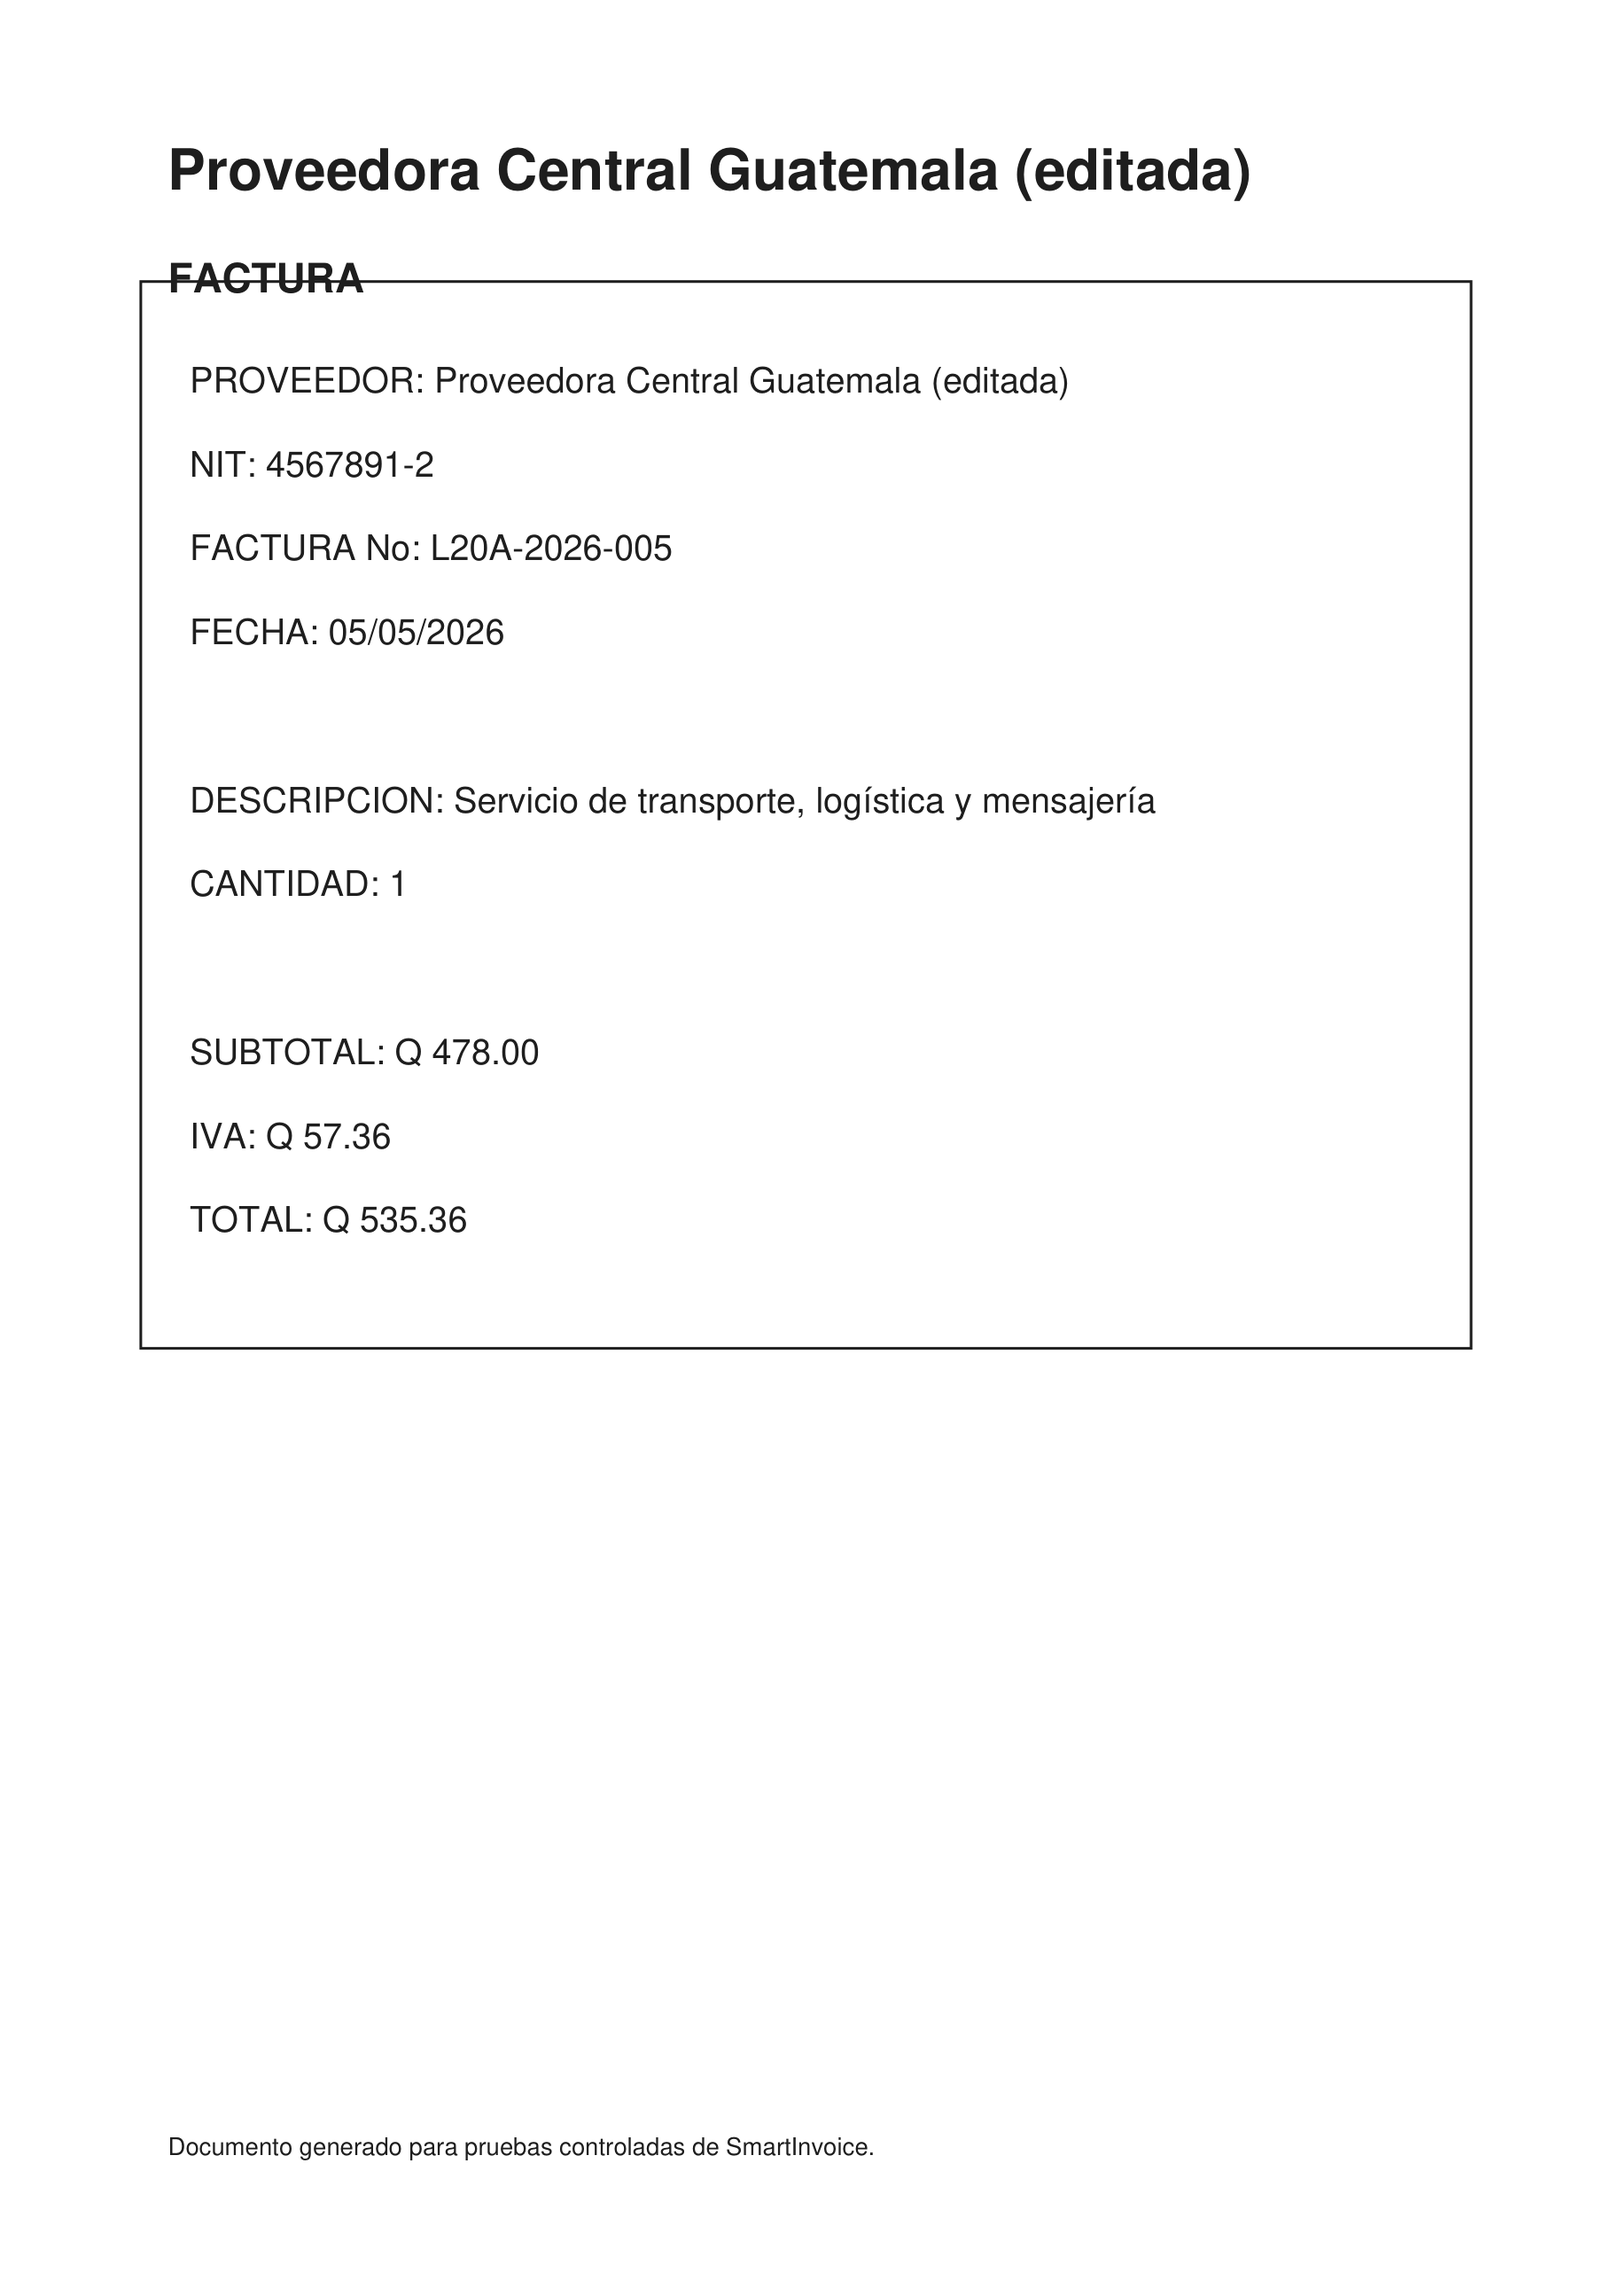
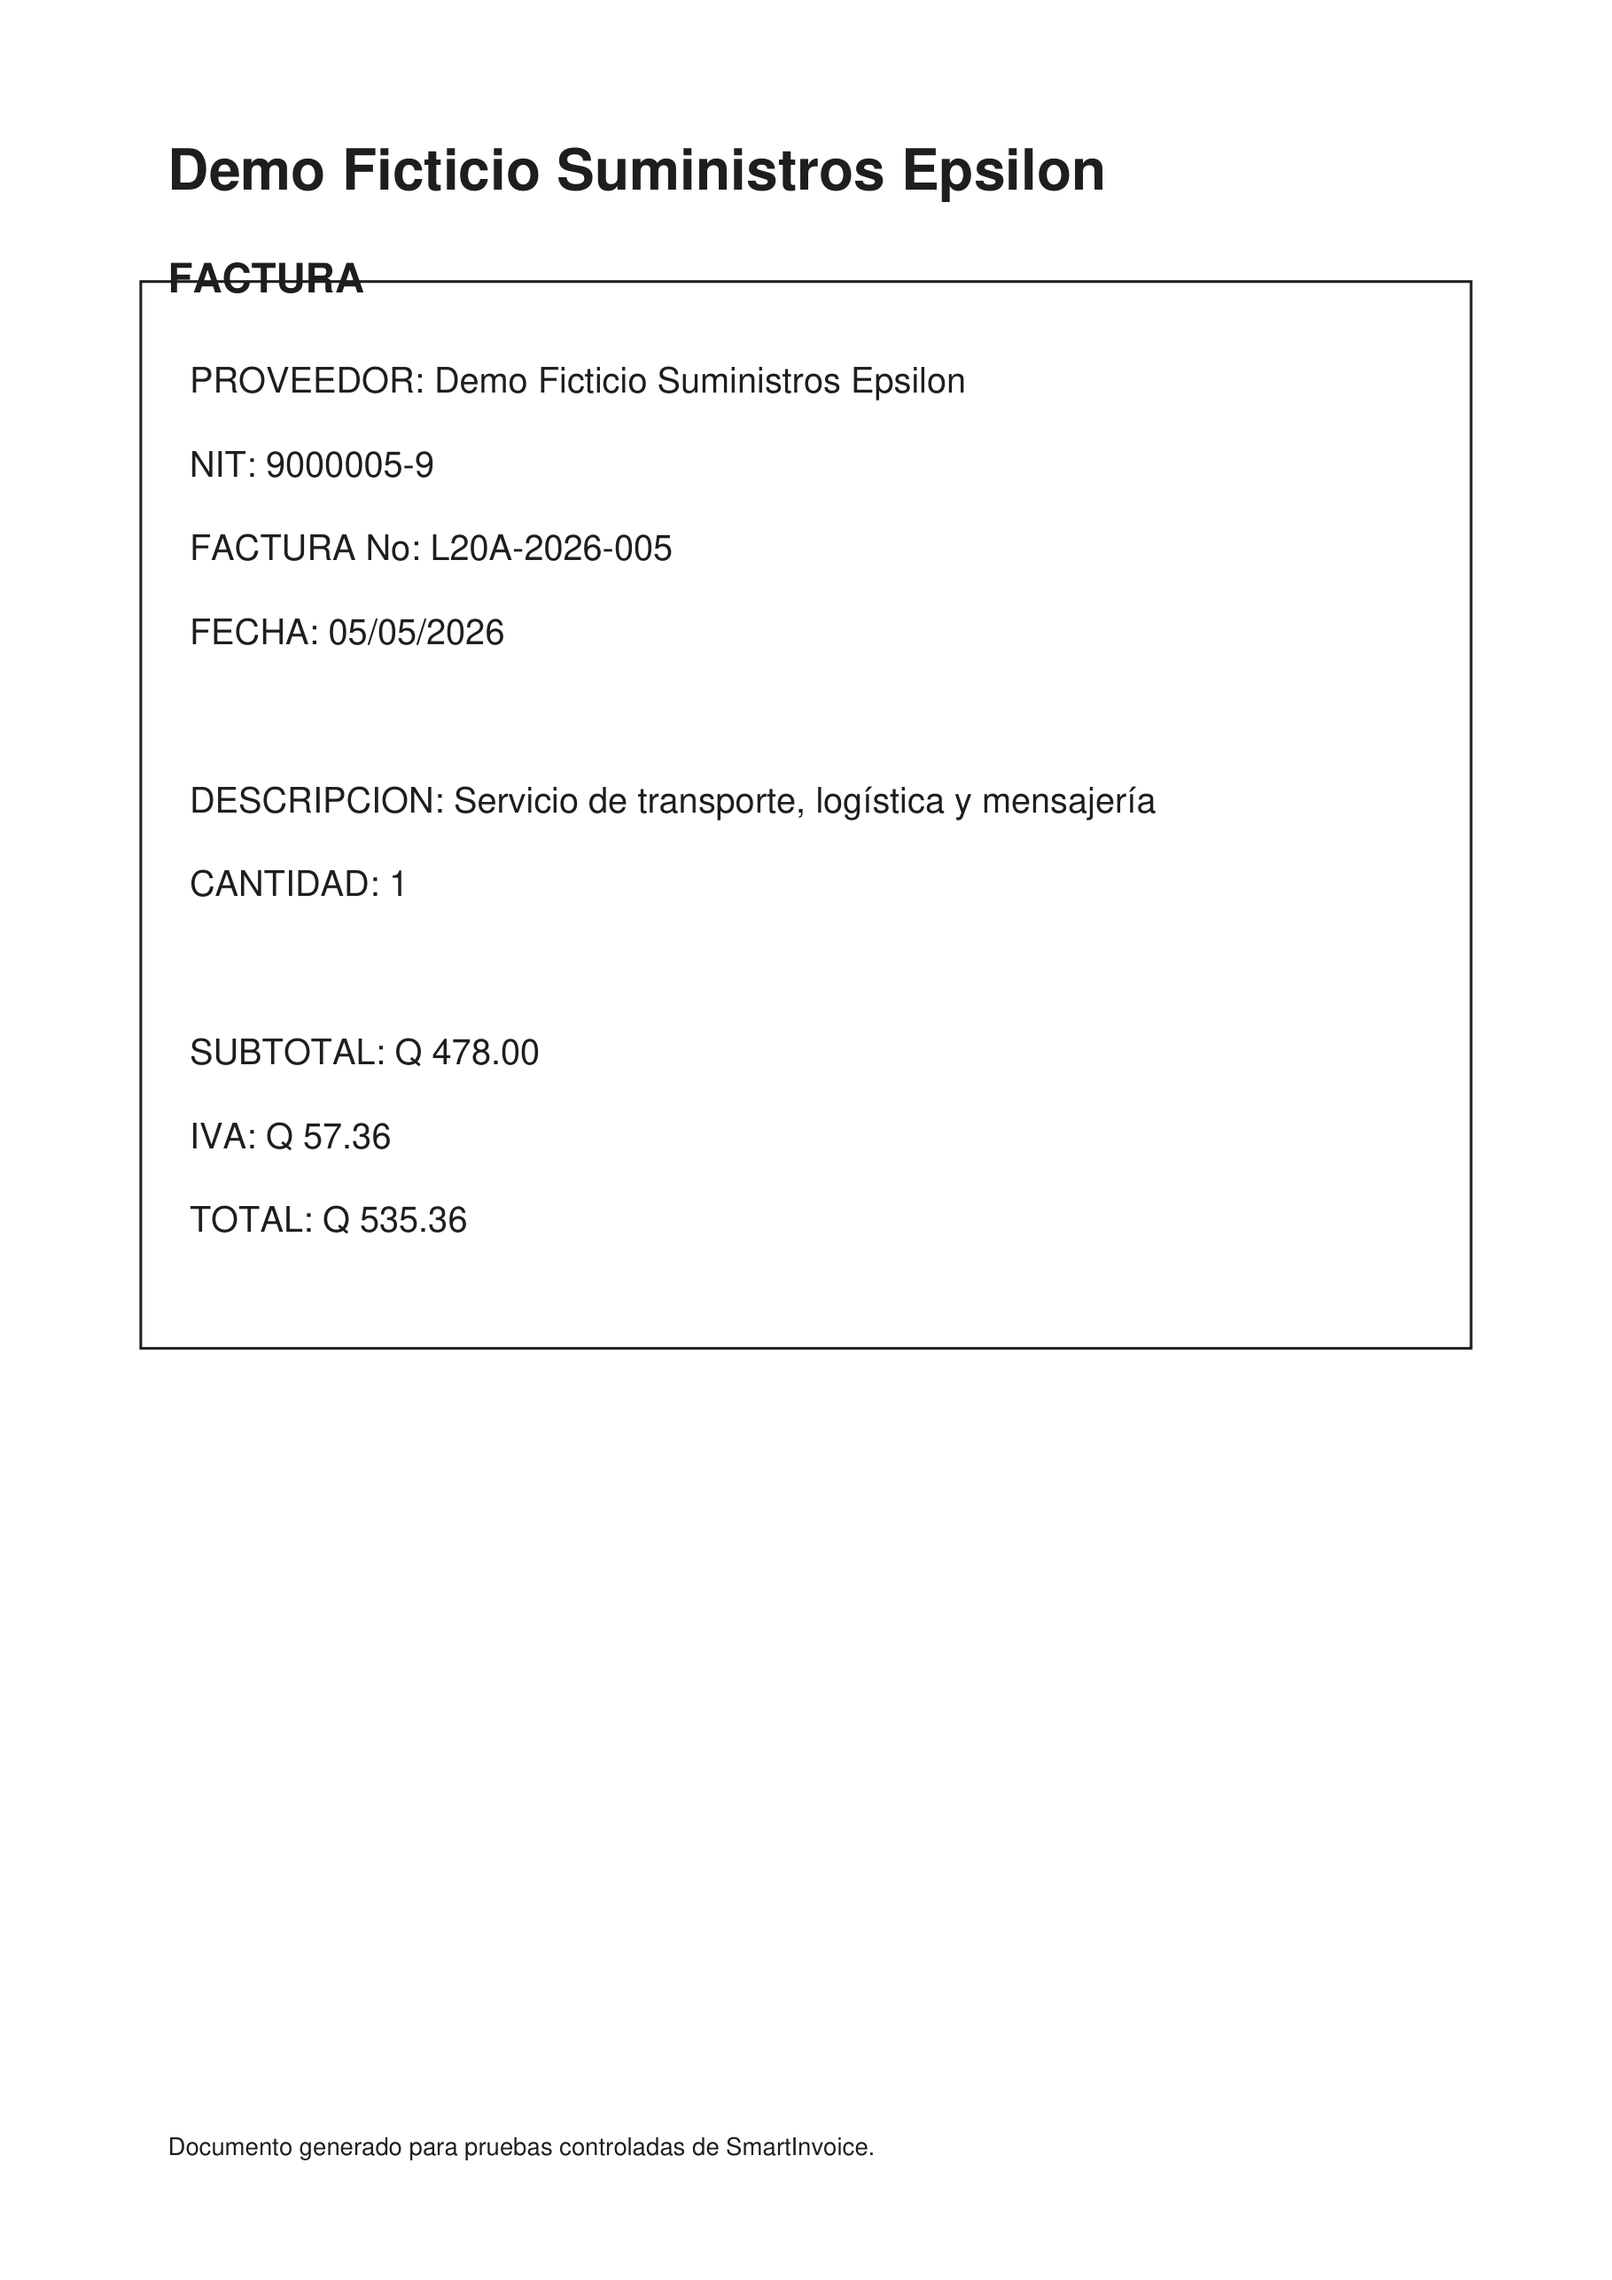
chore: sanitize SmartInvoice demo fixtures

Changed region(s): [[0.1231, 0.0622, 0.7697, 0.0933], [0.2771, 0.1555, 0.6465, 0.1866], [0.1539, 0.1866, 0.2463, 0.2176]]

diff --git a/Practica_3/frontend/src/pages/LoginPage.jsx b/Practica_3/frontend/src/pages/LoginPage.jsx
@@ -169,13 +169,13 @@ export default function LoginPage() {
               <div className="invoice-preview-row">
                 <span>Proveedor</span>
                 <strong>
-                  Tecnología Maya, S.A.
+                  Demo Ficticio Tecnologia Alfa
                 </strong>
               </div>
 
               <div className="invoice-preview-row">
                 <span>NIT</span>
-                <strong>1234567-8</strong>
+                <strong>9000001-9</strong>
               </div>
 
               <div className="invoice-preview-row">

diff --git a/Practica_3/frontend/src/pages/ProvidersPage.jsx b/Practica_3/frontend/src/pages/ProvidersPage.jsx
@@ -679,7 +679,7 @@ export default function ProvidersPage() {
                 required
                 maxLength={30}
                 value={form.nit}
-                placeholder="1234567-8"
+                placeholder="9000001-9"
                 onChange={(event) =>
                   updateForm(
                     "nit",

diff --git a/Practica_3/scripts/generate_batch_20.py b/Practica_3/scripts/generate_batch_20.py
@@ -39,40 +39,40 @@ from reportlab.pdfgen import canvas
 
 PROVIDERS = [
     {
-        "name": "Tecnología Maya, S.A.",
-        "nit": "1234567-8",
+        "name": "Demo Ficticio Tecnologia Alfa",
+        "nit": "9000001-9",
         "description": (
             "Computadoras, periféricos y accesorios tecnológicos"
         ),
         "category": "Tecnología",
     },
     {
-        "name": "Distribuidora Quetzal, S.A.",
-        "nit": "7654321-0",
+        "name": "Demo Ficticio Oficina Beta",
+        "nit": "9000002-9",
         "description": (
             "Papelería, mobiliario y suministros de oficina"
         ),
         "category": "Oficina",
     },
     {
-        "name": "Servicios Chapines",
-        "nit": "9876543-K",
+        "name": "Demo Ficticio Servicios Gamma",
+        "nit": "9000003-9",
         "description": (
             "Servicios profesionales de soporte y mantenimiento"
         ),
         "category": "Servicios",
     },
     {
-        "name": "Comercial Smart Guatemala",
-        "nit": "123456789",
+        "name": "Demo Ficticio Comercial Delta",
+        "nit": "9000004-9",
         "description": (
             "Alimentos y suministros para reunión empresarial"
         ),
         "category": "Alimentos",
     },
     {
-        "name": "Proveedora Central Guatemala (editada)",
-        "nit": "4567891-2",
+        "name": "Demo Ficticio Suministros Epsilon",
+        "nit": "9000005-9",
         "description": (
             "Servicio de transporte, logística y mensajería"
         ),
@@ -444,7 +444,7 @@ def write_manifest(
                 "profile",
                 "expected_category",
             ],
-        )
+            lineterminator="\n")
 
         writer.writeheader()
 

diff --git a/Practica_3/scripts/generate_test_invoices.py b/Practica_3/scripts/generate_test_invoices.py
@@ -12,8 +12,8 @@ from reportlab.pdfgen import canvas
 INVOICES = [
     {
         "file": "factura_tecnologia.pdf",
-        "provider": "Tecnologia Maya, S.A.",
-        "nit": "1234567-8",
+        "provider": "Demo Ficticio Tecnologia Alfa",
+        "nit": "9000001-9",
         "number": "FAC-2026-001",
         "date": "17/06/2026",
         "subtotal": "1000.00",
@@ -23,8 +23,8 @@ INVOICES = [
     },
     {
         "file": "factura_quetzal.png",
-        "provider": "Distribuidora Quetzal, S.A.",
-        "nit": "7654321-0",
+        "provider": "Demo Ficticio Oficina Beta",
+        "nit": "9000002-9",
         "number": "FAC-2026-002",
         "date": "16/06/2026",
         "subtotal": "500.00",
@@ -34,8 +34,8 @@ INVOICES = [
     },
     {
         "file": "factura_servicios_ruido.jpg",
-        "provider": "Servicios Chapines",
-        "nit": "9876543-K",
+        "provider": "Demo Ficticio Servicios Gamma",
+        "nit": "9000003-9",
         "number": "FAC-2026-003",
         "date": "15/06/2026",
         "subtotal": "750.00",

diff --git a/Practica_3/samples/batch_20/README.md b/Practica_3/samples/batch_20/README.md
@@ -3,6 +3,8 @@
 Este directorio contiene un lote sintético utilizado para validar el
 procesamiento masivo de SmartInvoice.
 
+> **Datos de demostración:** todos los nombres de proveedores e identificadores tributarios de este lote son ficticios. Los NIT de prueba conservan un formato aceptado por SmartInvoice, pero utilizan deliberadamente un dígito verificador inválido bajo el algoritmo legado módulo 11 para evitar representar a un contribuyente real.
+
 ## Contenido
 
 - 20 facturas únicas.
